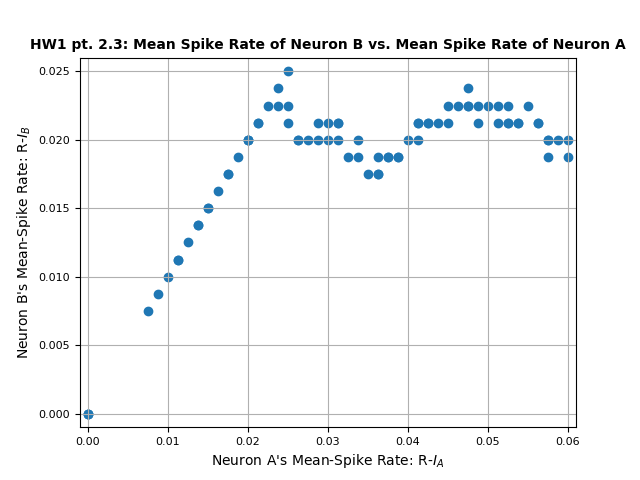
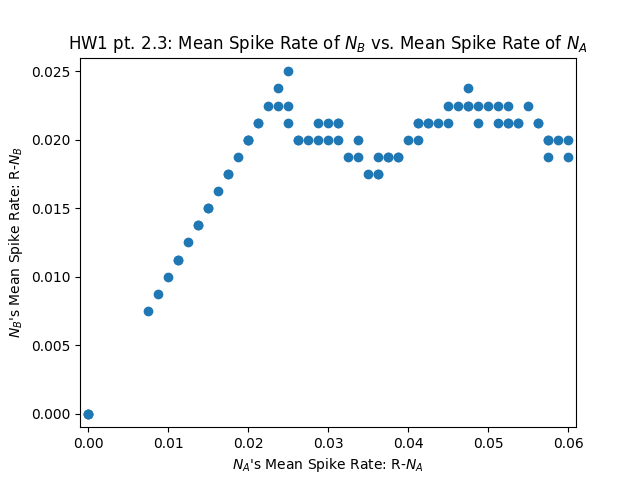
Whoops, graphed the wrong thing. Fixed now and comments are updated and hopefully finalized

diff --git a/HW1_2.py b/HW1_2.py
@@ -9,7 +9,11 @@ from HW1_1 import Neuron  # Import neuron class for this problem
     use MATLAB R13 or later. November 2003. San Diego, CA
 
     Modified by Ali Minai
-    Modified again by Tony Bailey for HW 1
+    Modified again by Tony Bailey for HW 1 pt 2.
+
+    This program connects two RS neurons together and Neuron A
+    is fed a step response I_A. Spike rates are monitored and plotted after
+    simulating I_A ranging from 0 to 20.
 """
 
 def main():
@@ -20,8 +24,8 @@ def main():
     N1 = Neuron(0.02, 0.25, -65.0, 6.0, -64.0)
     N2 = Neuron(0.02, 0.25, -65.0, 6.0, -64.0)
 
-    tau = 0.25 # time step length
-    tspan = np.arange(0,steps+tau,tau) # Note, arange understeps by tau
+    tau = 0.25  # time step length
+    tspan = np.arange(0,steps+tau,tau)  # Note, arange understeps by tau
 
     T1 = 50  # Time at which the step input rises.
 
@@ -30,23 +34,18 @@ def main():
     # All of the 81 cases of I to be tested.
     Input = np.linspace(0,20,81)
 
-    Inplot = [1, 5, 10, 15, 20]  # list of values of I that will be plotted.
-    R1 = np.zeros(Input.shape) # preallocate R with the same length as I.
-    R2 = np.zeros(Input.shape) # preallocate R with the same length as I.
-
-    # Initialize lists for the series to be plotted.
-    v_plot1 = []
-    v_plot2 = []
+    R1 = np.zeros(Input.shape)  # preallocate R with the same length as I.
+    R2 = np.zeros(Input.shape)  # preallocate R with the same length as I.
 
     for istep, i in enumerate(Input):
 
-        print(istep)
+        print(istep)  # Print current iteration.
         # Restart spike counters
         spike_counter1 = 0
         spike_counter2 = 0
 
-        VV1 = np.zeros(tspan.shape) # preallocate VV with the same length as tspan.
-        VV2 = VV1.copy() # Deep copy of VV1
+        VV1 = np.zeros(tspan.shape)  # preallocate VV with the same length as tspan.
+        VV2 = VV1.copy()  # Deep copy of VV1
 
         N1.reset()  # Reset neuron to inital V
         N2.reset()  # Reset neuron to inital V
@@ -70,56 +69,35 @@ def main():
             if Spike2 and t >= 200.0:
                 spike_counter2 += 1
 
-        if i in Inplot:
-            # Store VV to be plotted if in the requested list of I.
-            v_plot1.append(VV1)
-            v_plot2.append(VV2)
-
         # Calculate spike rate, R
         R1[int(istep)]=spike_counter1/800.0
         R2[int(istep)]=spike_counter2/800.0
 
-    # Plot VV figure for N_A.
-    f1 = 10
-    for n in range(5):
-        plt.subplot(5,1,n+1)
-        plt.plot(tspan, v_plot1[n])
-        plt.xlabel('Time Step', fontsize=f1)
-        plt.ylim((-90, 40))
-        plt.xlim((0, tspan[-1]))
-        plt.ylabel('$V_{mem}$' , fontsize=f1)
-        plt.tick_params(labelsize=f1-2)
-        plt.title('Regular Spiking: $I_A$={}'.format(Inplot[n]), fontsize=f1, fontweight='bold')
-
-    plt.subplots_adjust(left=0.075, bottom=0.05, right=0.95, top=0.925, wspace=5, hspace=0.75)
-    plt.suptitle('HW1 pt. 2.1: $N_A$\'s Response Over Time', fontsize=f1+2)
+    # Plot N_A-R vs. I_A figure
+    plt.plot(Input,R1)
+    plt.xlabel('External Input: $I_A$')
+    plt.xlim((0, 20))
+    plt.ylim((0, max(R1)))
+    plt.ylabel('Mean Spike-rate: R')
+    plt.title('HW1 pt. 2.1: $N_A$\'s Mean Spike-rate R vs. External Input $I_A$')
     plt.show()
 
-    # Plot VV figure for N_B
-    for n in range(5):
-        plt.subplot(5,1,n+1)
-        plt.plot(tspan, v_plot2[n])
-        plt.xlabel('Time Step', fontsize=f1)
-        plt.ylim((-90, 40))
-        plt.xlim((0, tspan[-1]))
-        plt.ylabel('$V$' , fontsize=f1)
-        plt.tick_params(labelsize=f1-2)
-        plt.title('Regular Spiking: $I_A$={}'.format(Inplot[n]), fontsize=f1, fontweight='bold')
-
-    plt.subplots_adjust(left=0.075, bottom=0.05, right=0.95, top=0.925, wspace=5, hspace=0.75)
-    plt.suptitle('HW1 pt. 2.2: $N_B$\'s Response Over Time', fontsize=f1+2)
+    # Plot N_B-R vs. I_A figure
+    plt.plot(Input,R2)
+    plt.xlabel('External Input: $I_A$')
+    plt.xlim((0, 20))
+    plt.ylim((0, max(R2)))
+    plt.ylabel('Mean Spike-rate: R')
+    plt.title('HW1 pt. 2.2: $N_B$\'s Mean Spike-rate R vs. External Input $I_A$')
     plt.show()
-
 
     # Plot R_N_B vs R_N_A figure
     plt.scatter(R1, R2)
-    plt.xlabel('$N_A$\'s Mean Spike Rate: R-$N_A$', fontsize=f1)
+    plt.xlabel('$N_A$\'s Mean Spike Rate: R-$N_A$')
     plt.ylim((-0.001, max(R2)+0.001))
     plt.xlim((-0.001, max(R1)+0.001))
-    plt.ylabel('$N_B$\'s Mean Spike Rate: R-$N_B$' , fontsize=f1)
-    plt.tick_params(labelsize=f1)
-    plt.title('HW1 pt. 2.3: Mean Spike Rate of $N_B$ vs. Mean Spike Rate of $N_A$'.format(Inplot[n]),
-                fontsize=f1+2)
+    plt.ylabel('$N_B$\'s Mean Spike Rate: R-$N_B$')
+    plt.title('HW1 pt. 2.3: Mean Spike Rate of $N_B$ vs. Mean Spike Rate of $N_A$')
 
     plt.show()
 

diff --git a/HW1_1.py b/HW1_1.py
@@ -8,6 +8,11 @@ import matplotlib.pyplot as plt
 
     Modified by Ali Minai
     Modified again by Tony Bailey for HW 1
+
+    This program defines a neuron class described by Izhikevich. It is then
+    stimulated by step responses of varying inputs I ranging from 0 to 20. The
+    spiking waveforms and mean spike rates are collected and plotted after
+    the simulations finish.
 """
 
 class Neuron:
@@ -16,7 +21,6 @@ class Neuron:
     I defined the neuron as a class so that I could easily replicated its
     behavior in the two neuron system.
     """
-
     def __init__(self, a, b, c, d, V):
         # Assign neuron parameters to its own internal variables
         self.a = a
@@ -55,7 +59,7 @@ def main():
     N1 = Neuron(0.02, 0.25, -65.0, 6.0, -64.0)
 
     tau = 0.25  # time step length
-    tspan = np.arange(0,steps+tau,tau) # Arange understeps by tau
+    tspan = np.arange(0,steps+tau,tau)  # Arange understeps by tau
 
     T1 = 50  # Time at which the step input rises.
 
@@ -69,9 +73,9 @@ def main():
 
     for istep, i in enumerate(Input):
 
-        print(istep)
+        print(istep)  # Print current iteration.
         spike_counter = 0  # Restart spike counter
-        VV = np.zeros(tspan.shape) # preallocate VV with the same length as tspan.
+        VV = np.zeros(tspan.shape)  # preallocate VV with the same length as tspan.
 
         N1.reset()  # Reset neuron to initial -64mV for the next trial.
 
@@ -89,14 +93,12 @@ def main():
                 # Increment the spike counter.
                 spike_counter+=1
 
-
         if i in Inplot:
             # Store VV to be plotted if in the requested list of I.
             v_plot.append(VV)
 
         # Calculate spike rate, R
         R[int(istep)]=spike_counter/800.0
-
 
     # Plot VV figure
     f1 = 10
@@ -108,6 +110,7 @@ def main():
         plt.xlim((0, tspan[-1]))
         plt.ylabel('$V$' , fontsize=f1)
         plt.tick_params(labelsize=f1-2)
+        plt.yticks(np.arange(-90, 40, 20))
         plt.title('Regular Spiking: I={}'.format(Inplot[n]), fontsize=f1, fontweight='bold')
 
     plt.subplots_adjust(left=0.075, bottom=0.05, right=0.95, top=0.925, wspace=5, hspace=0.75)
@@ -120,7 +123,7 @@ def main():
     plt.xlim((0, 20))
     plt.ylim((0, max(R)))
     plt.ylabel('Mean Spike-rate: R')
-    plt.title('HW1 pt. 1.2: Mean Spike-rate R vs. External Input I'.format(Inplot[n]))
+    plt.title('HW1 pt. 1.2: Mean Spike-rate R vs. External Input I')
     plt.show()
 
 if __name__ == '__main__':
